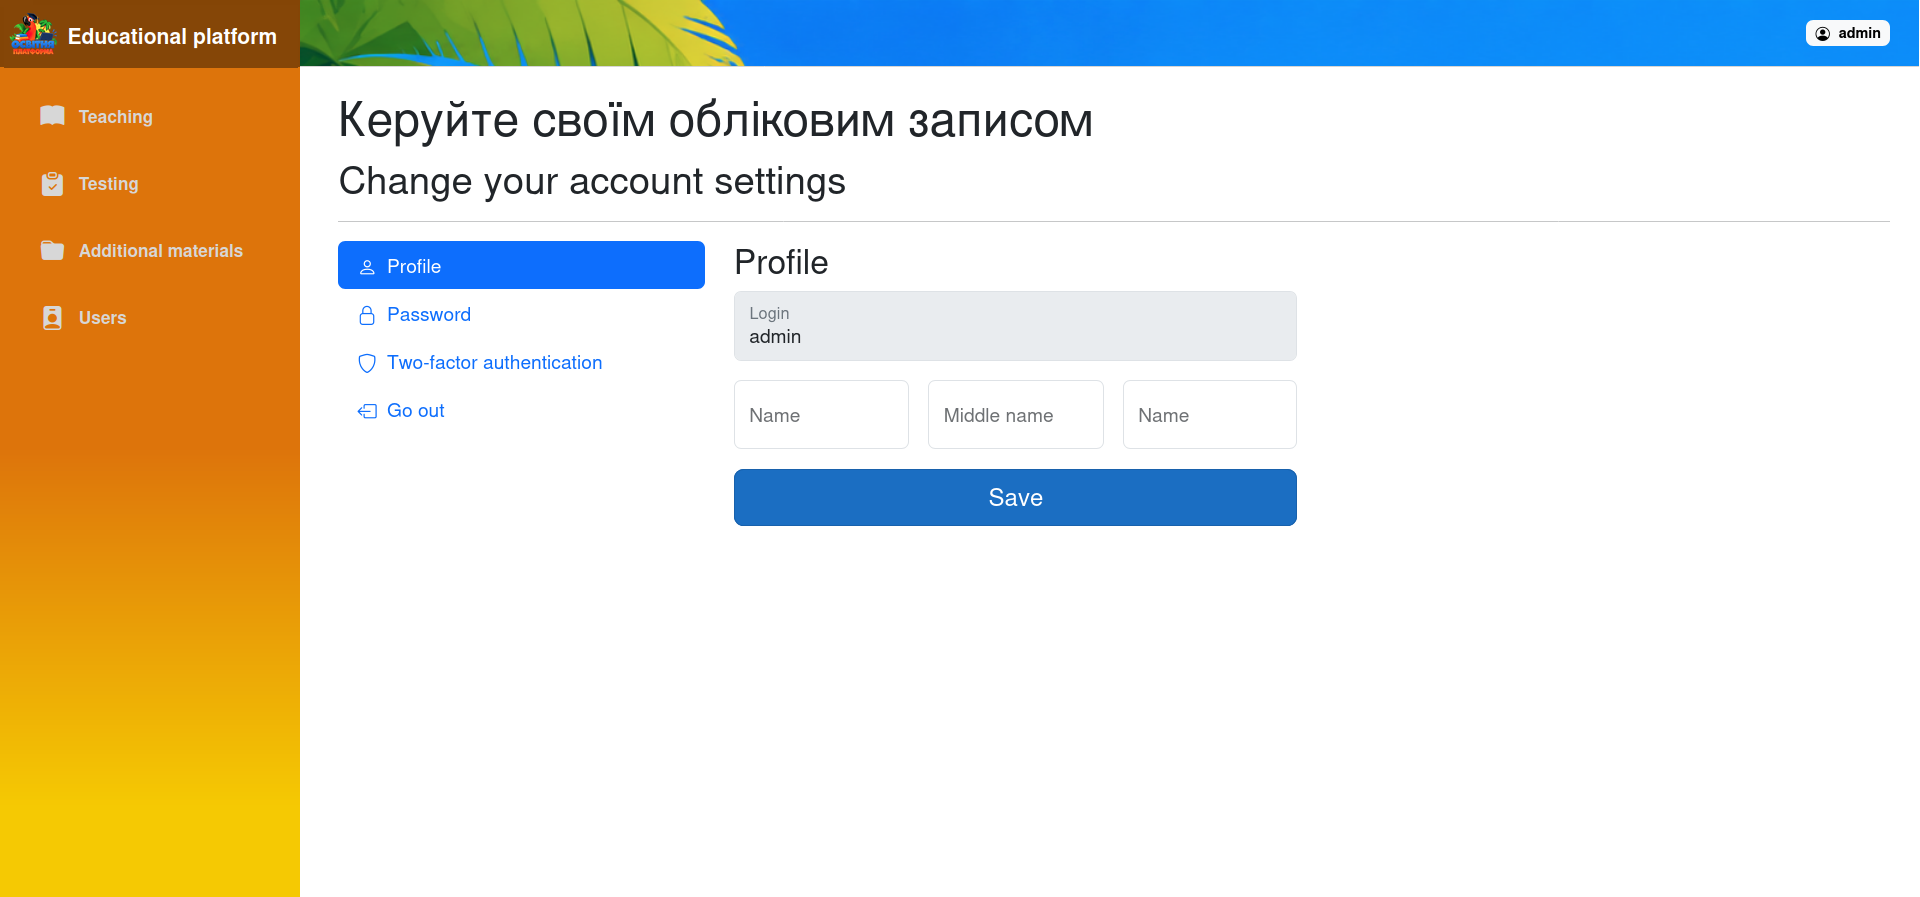
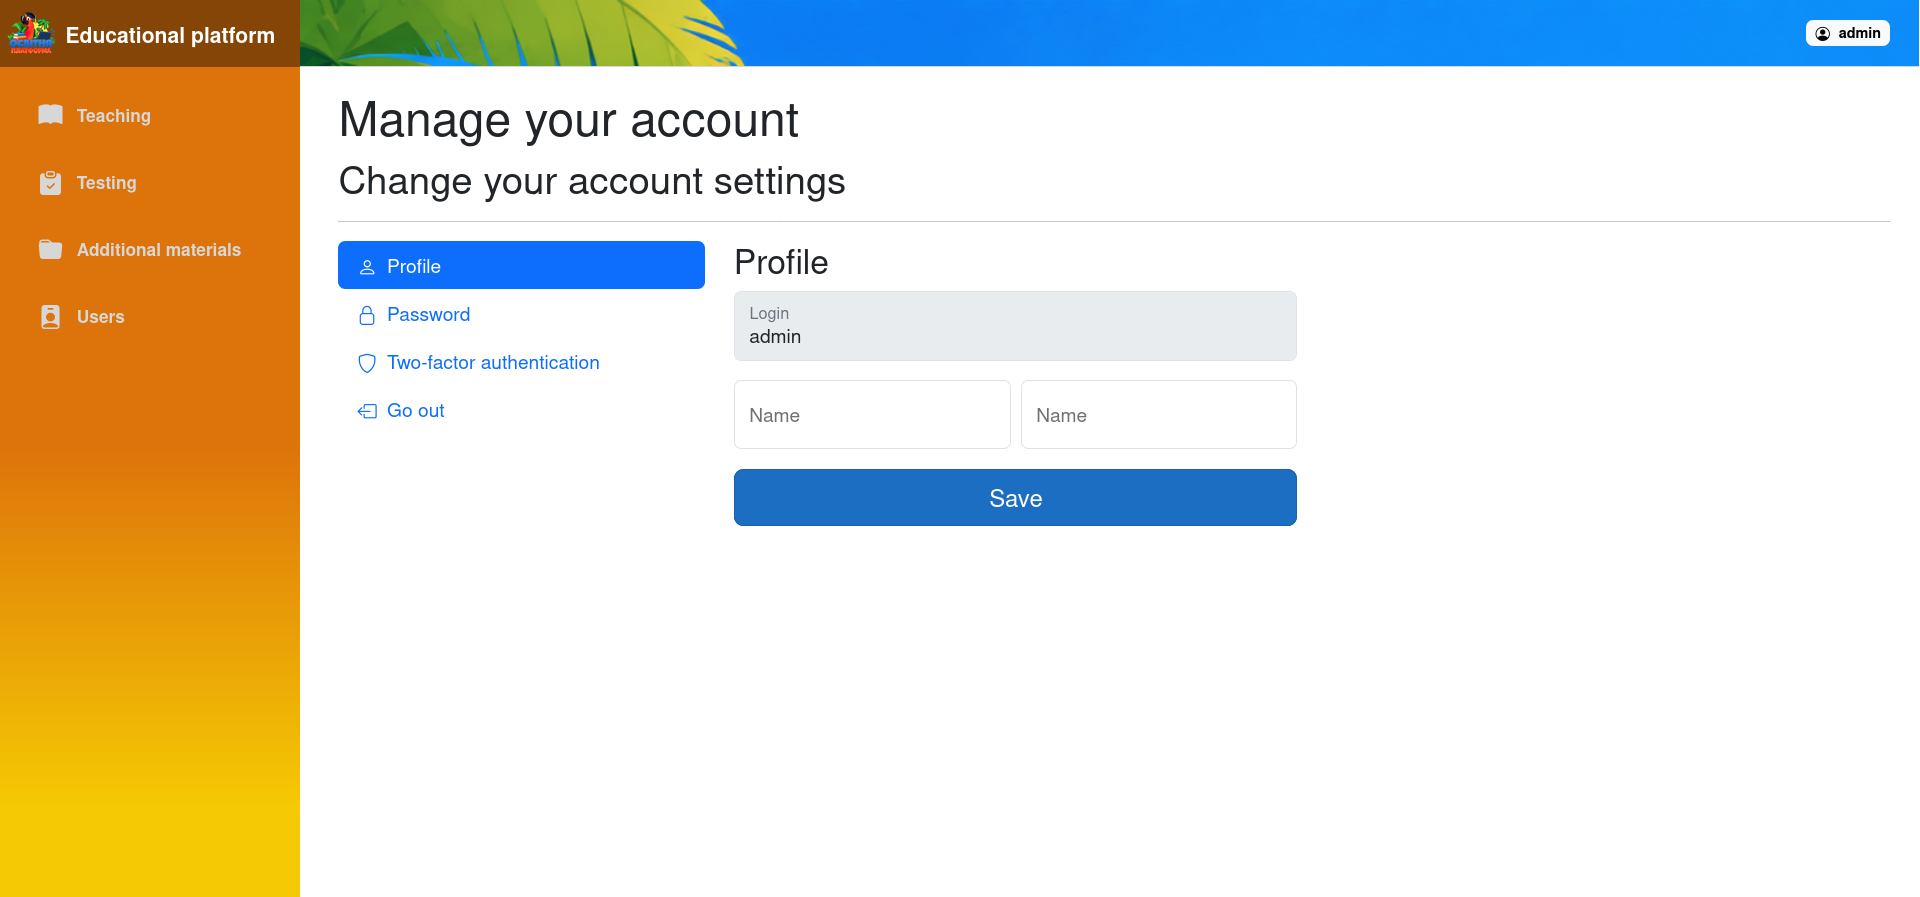
fix(Pages): Fixed more typos

diff --git a/Courses/README.md b/Courses/README.md
@@ -3,7 +3,7 @@
 
 Courses page shows all available courses for the user (Note the `Admin` and `Manager` badges, these courses are only available to those roles)
 
-Each Course Model only contains data for its Id, Title, RequiredRole, and DisplayOrder (+ Navigation property linking to a list of lessons). The data for hints are derived from the lessons in each course JOINED to the course query.
+Each Course Model only contains data for its `Id`, `Title`, `RequiredRole`, and `DisplayOrder` (+ Navigation property linking to a list of lessons). The data for hints are derived from the lessons in each course JOINED to the course query.
 
 Legend (From left to right):
 - The blue dot symbolizes a Seen Course (Course where all lessons have been opened by the user)
@@ -38,7 +38,7 @@ Same authorization logic applies here as in Course View.
 
 Showing tables on mobile is always a challenge, but I tried addressing it with title and badge management. I separated Title wrapping from badge display so that on mobile (or on PC with long course titles) badges will never be wrapped to a new line under the title.
 
-This helps immensely with readability, since visually users dont need to decode to which course a badge belongs to.
+This helps immensely with readability, since visually users don't need to decode to which course a badge belongs to.
 
 # Lesson Form
 

diff --git a/Testing/README.md b/Testing/README.md
@@ -41,17 +41,12 @@ If I had to revisit this section, there are a few UX improvements I would add:
 - A field to adjust `Time per question` that gets added or removed for each question.
 - Lock `Test Duration` if it was manually edited.
 
-Otherwise, I think this page in particular is quite successfull.
+Otherwise, I think this page in particular is quite successful.
 
 # Mobile UI
 
 And of course I went to great lengths to make this UI also work on smaller screens! I think the results speak for themselves.
 
-## Test Form
-![Test Form](https://github.com/Pandora1337/mt-lms/blob/main/Testing/assets/test-form-mobile.png)
-
-## Test
 ![Test View](https://github.com/Pandora1337/mt-lms/blob/main/Testing/assets/test-mobile.png)
-
-## Test Finished
 ![Test Finished](https://github.com/Pandora1337/mt-lms/blob/main/Testing/assets/test-finished-mobile.png)
+![Test Form](https://github.com/Pandora1337/mt-lms/blob/main/Testing/assets/test-form-mobile.png)
